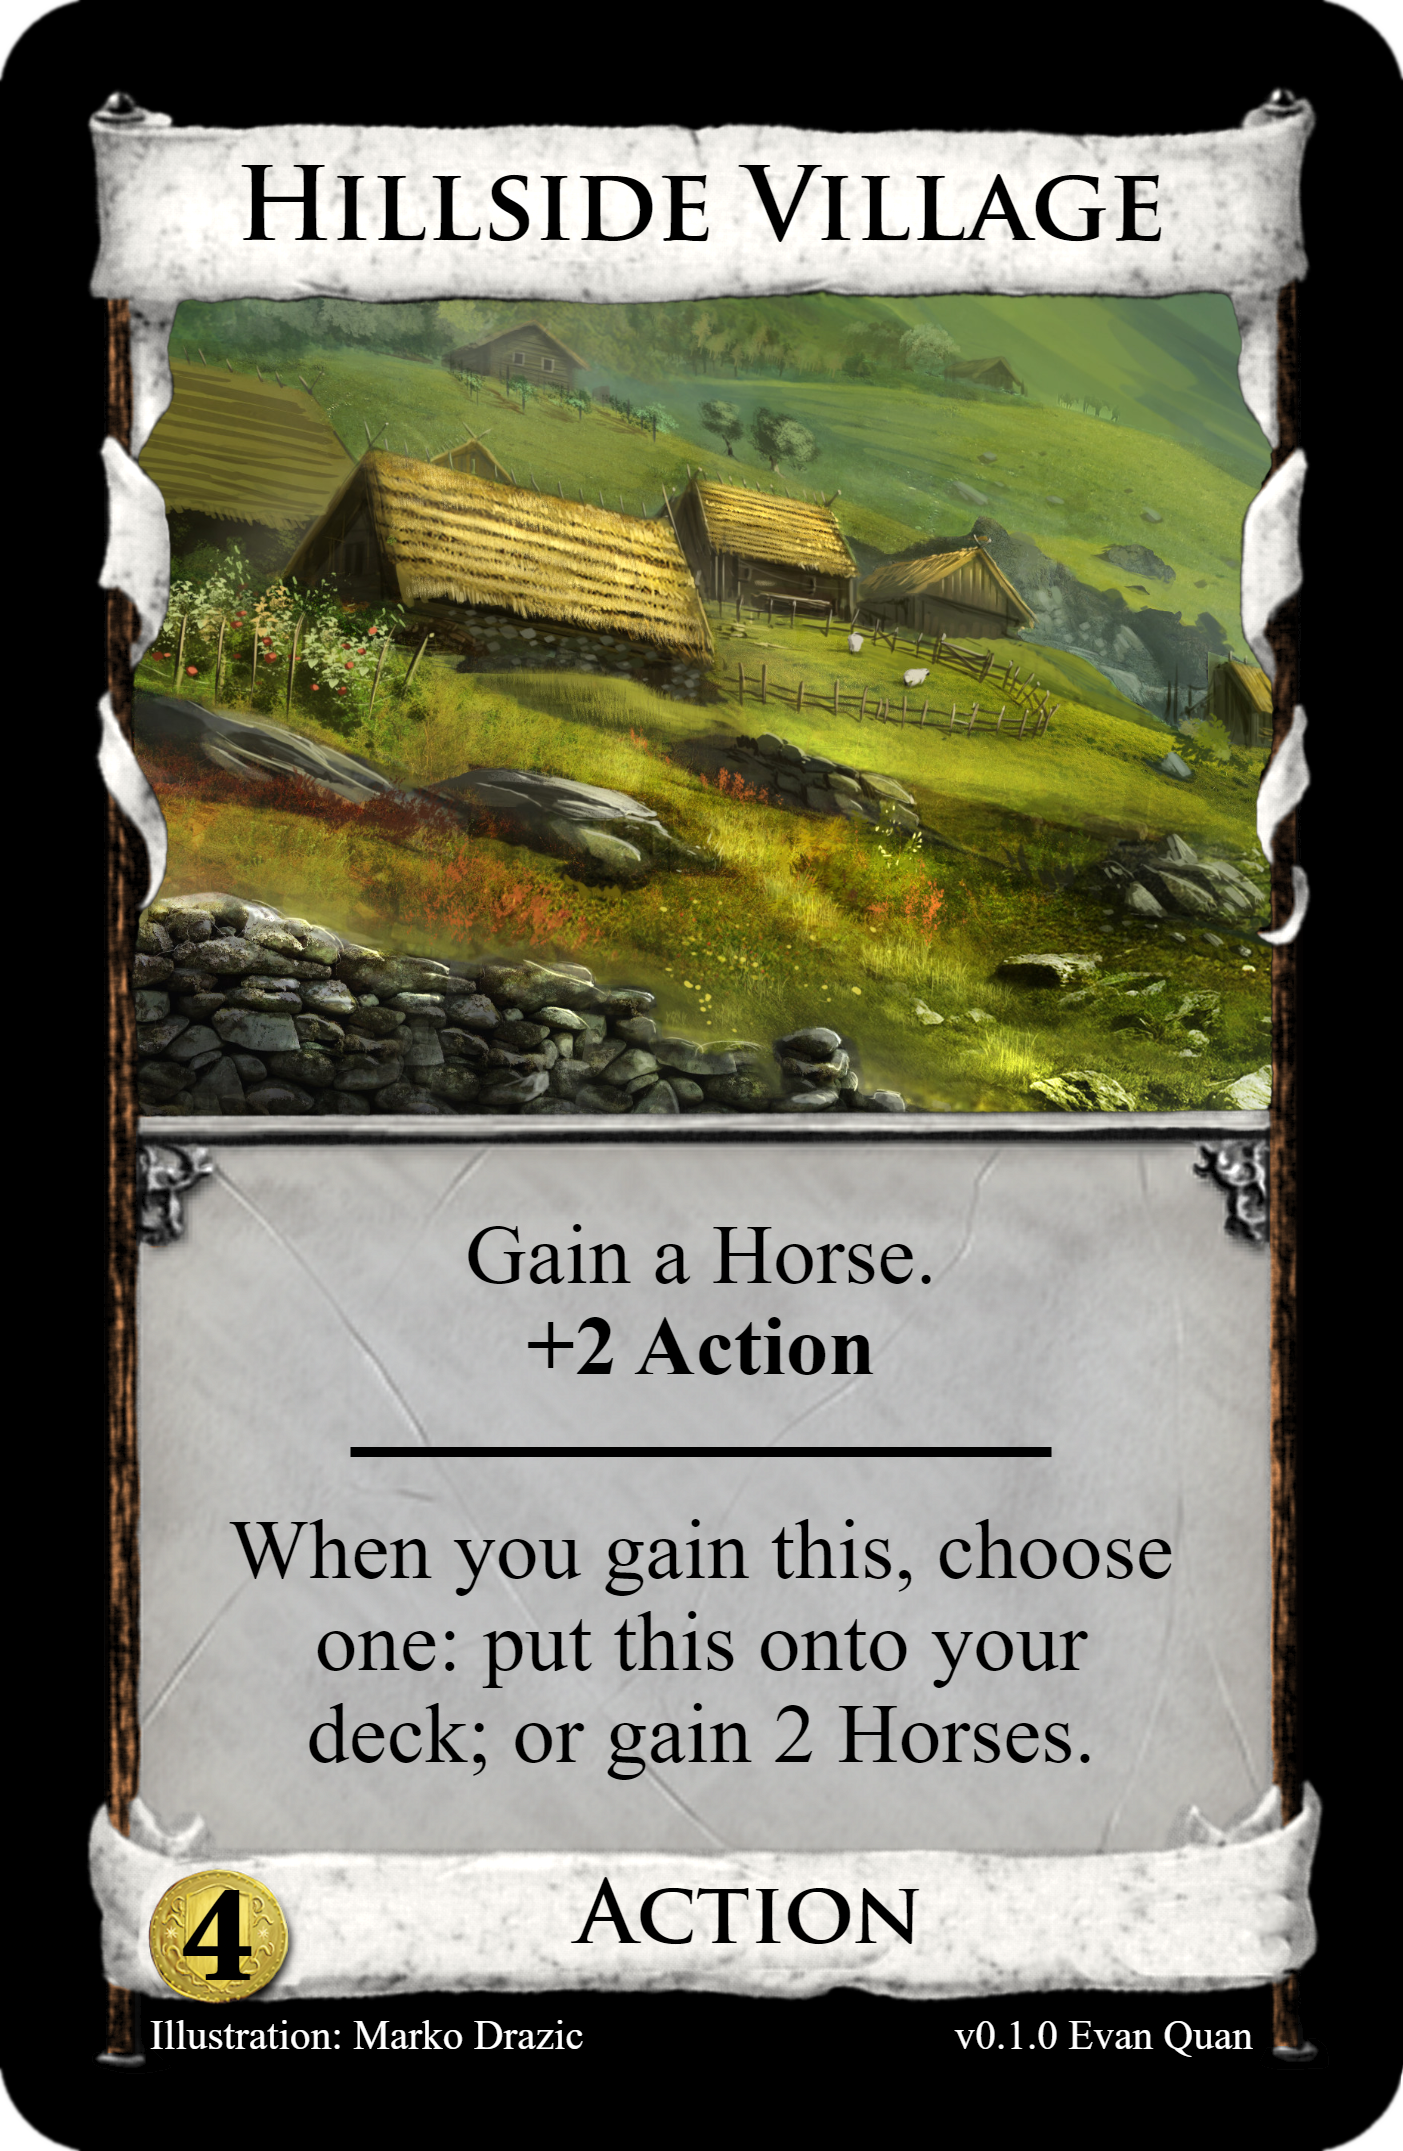
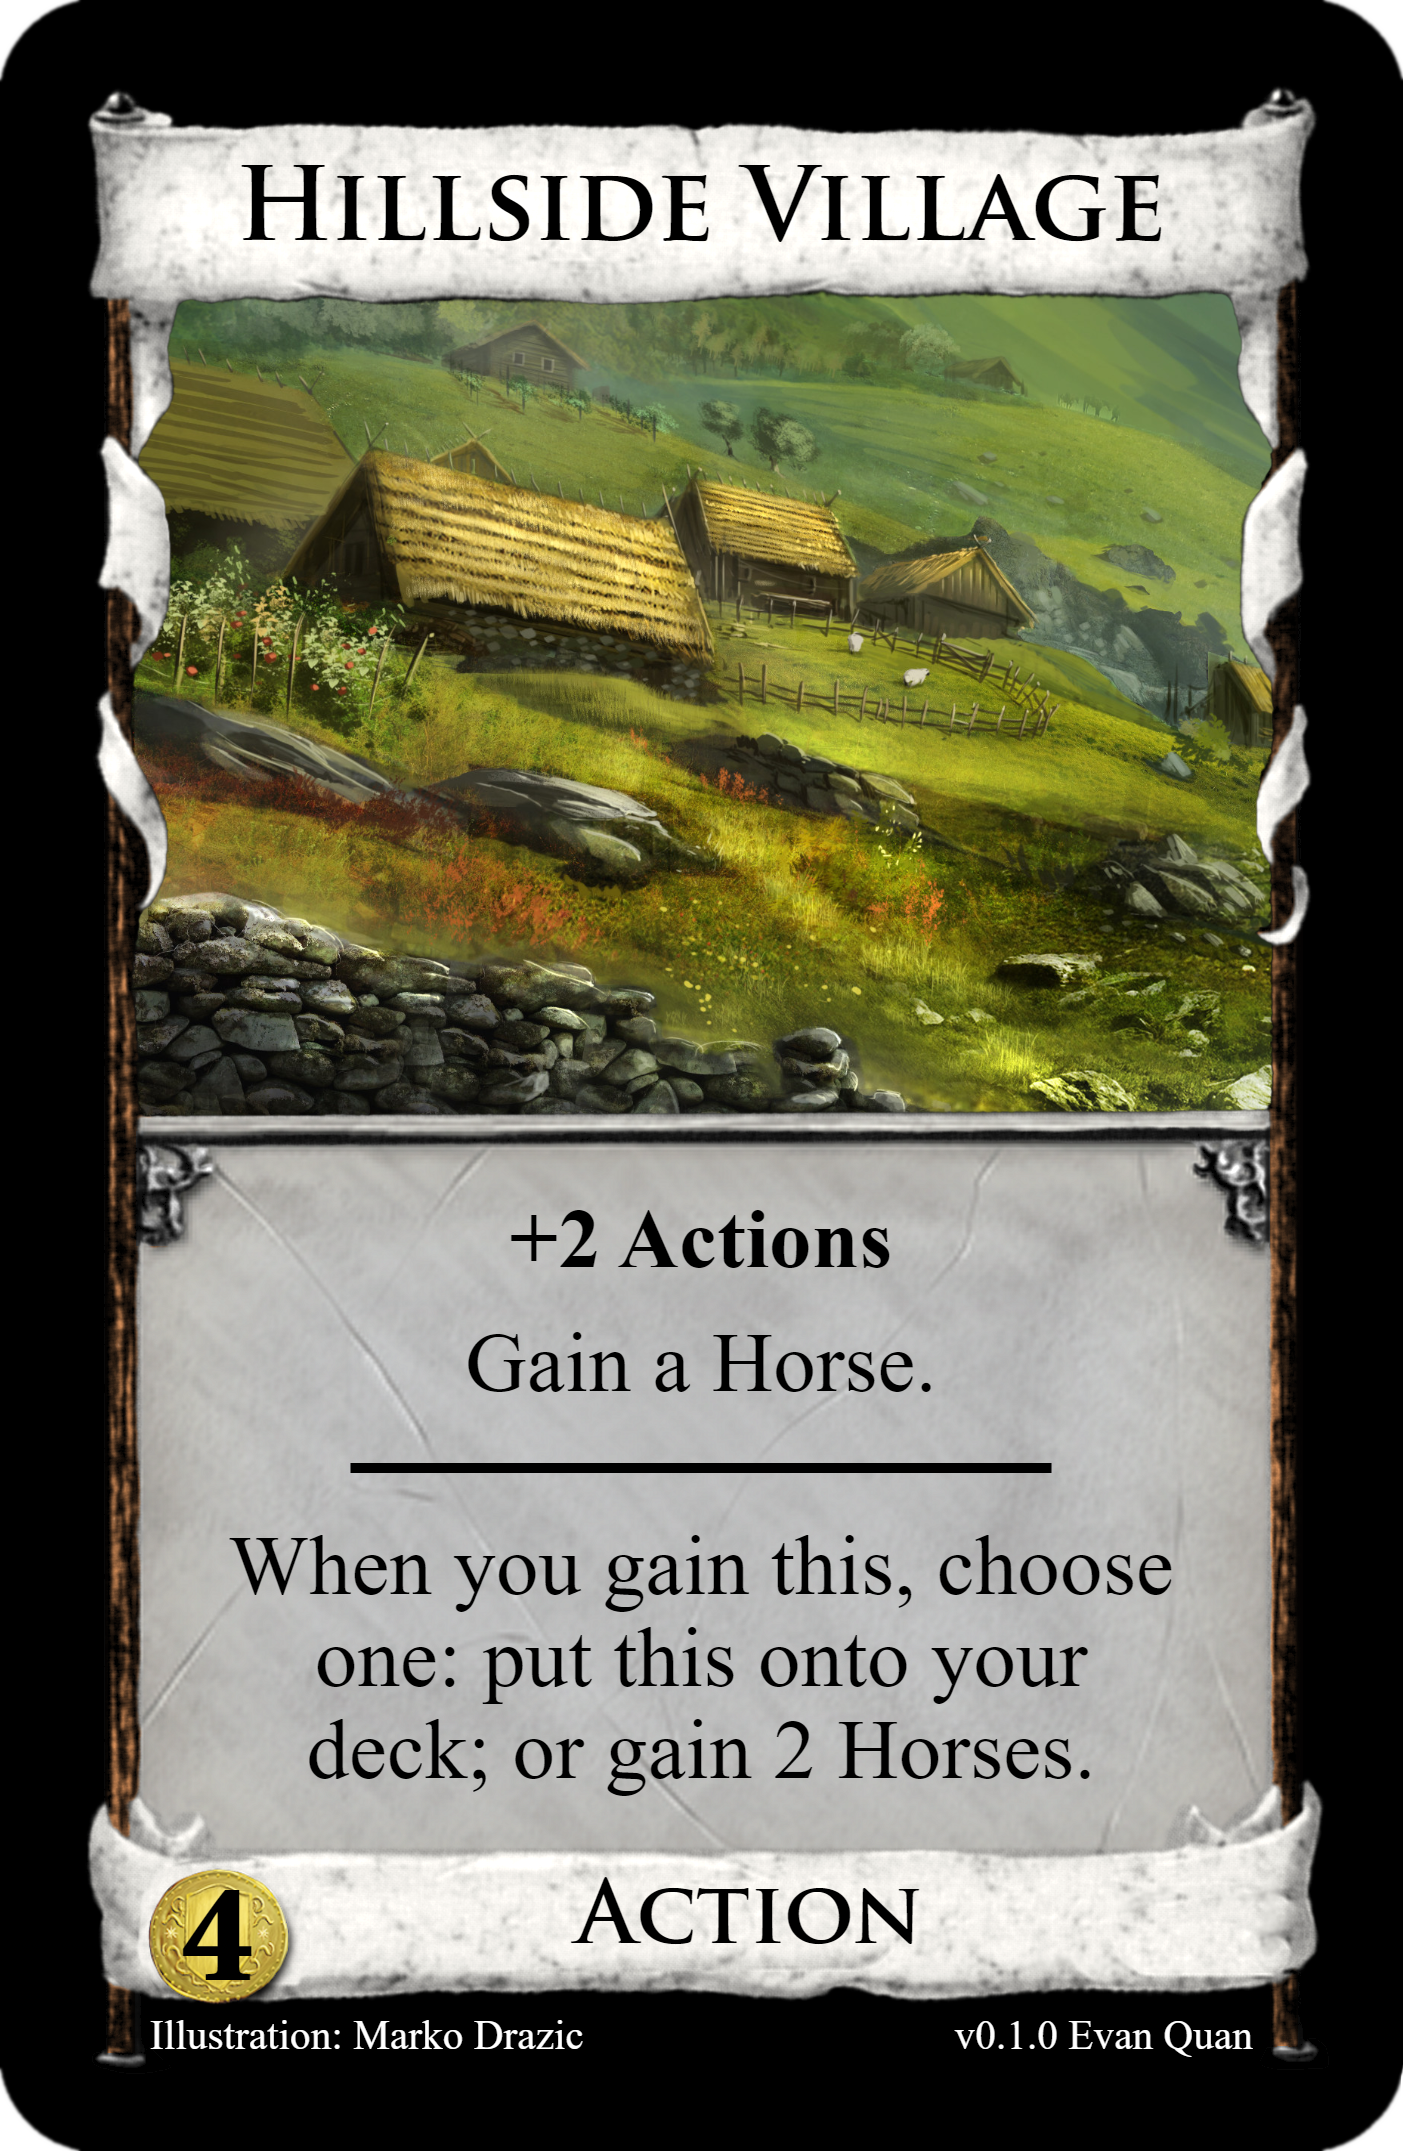
Update phrasing

Changed region(s): [[0.1532, 0.6853, 0.8582, 0.841], [0.2452, 0.5607, 0.7662, 0.6853]]

diff --git a/Action/HillsideVillage.md b/Action/HillsideVillage.md
@@ -13,6 +13,6 @@
 ---
 
 [^v0.1.0]: /Action/Images/Hillside_Village_v0.1.0.png
-[^Card]: https://shardofhonor.github.io/dominion-card-generator/?title=Hillside%20Village&description=Gain%20a%20Horse.%0A%2B2%20Action%0A%0A-%0A%0AWhen%20you%20gain%20this%2C%20choose%20one%3A%20put%20this%20onto%20your%20deck%3B%20or%20gain%202%20Horses.&type=Action&credit=Illustration%3A%20Marko%20Drazic&creator=v0.1.0%20Evan%20Quan&price=%244&preview=&type2=&color2split=1&boldkeys=&picture-x=1&picture-y=0&picture-zoom=1.4&picture=https%3A%2F%2Fcdnb.artstation.com%2Fp%2Fassets%2Fimages%2Fimages%2F001%2F568%2F743%2F4k%2Fmarko-drazic-open-village-02.jpg%3F1448729262&expansion=&custom-icon=&color0=0&color1=0&size=0
+[^Card]: https://shardofhonor.github.io/dominion-card-generator/?title=Hillside%20Village&description=%2B2%20Actions%0A%0AGain%20a%20Horse.%0A%0A-%0A%0AWhen%20you%20gain%20this%2C%20choose%20one%3A%20put%20this%20onto%20your%20deck%3B%20or%20gain%202%20Horses.&type=Action&credit=Illustration%3A%20Marko%20Drazic&creator=v0.1.0%20Evan%20Quan&price=%244&preview=&type2=&color2split=1&boldkeys=&picture-x=1&picture-y=0&picture-zoom=1.4&picture=https%3A%2F%2Fcdnb.artstation.com%2Fp%2Fassets%2Fimages%2Fimages%2F001%2F568%2F743%2F4k%2Fmarko-drazic-open-village-02.jpg%3F1448729262&expansion=&custom-icon=&color0=0&color1=0&size=0
 [^Illustrator]: https://www.artstation.com/drazaman
 [^Illustration]: https://www.artstation.com/artwork/6v9BO
